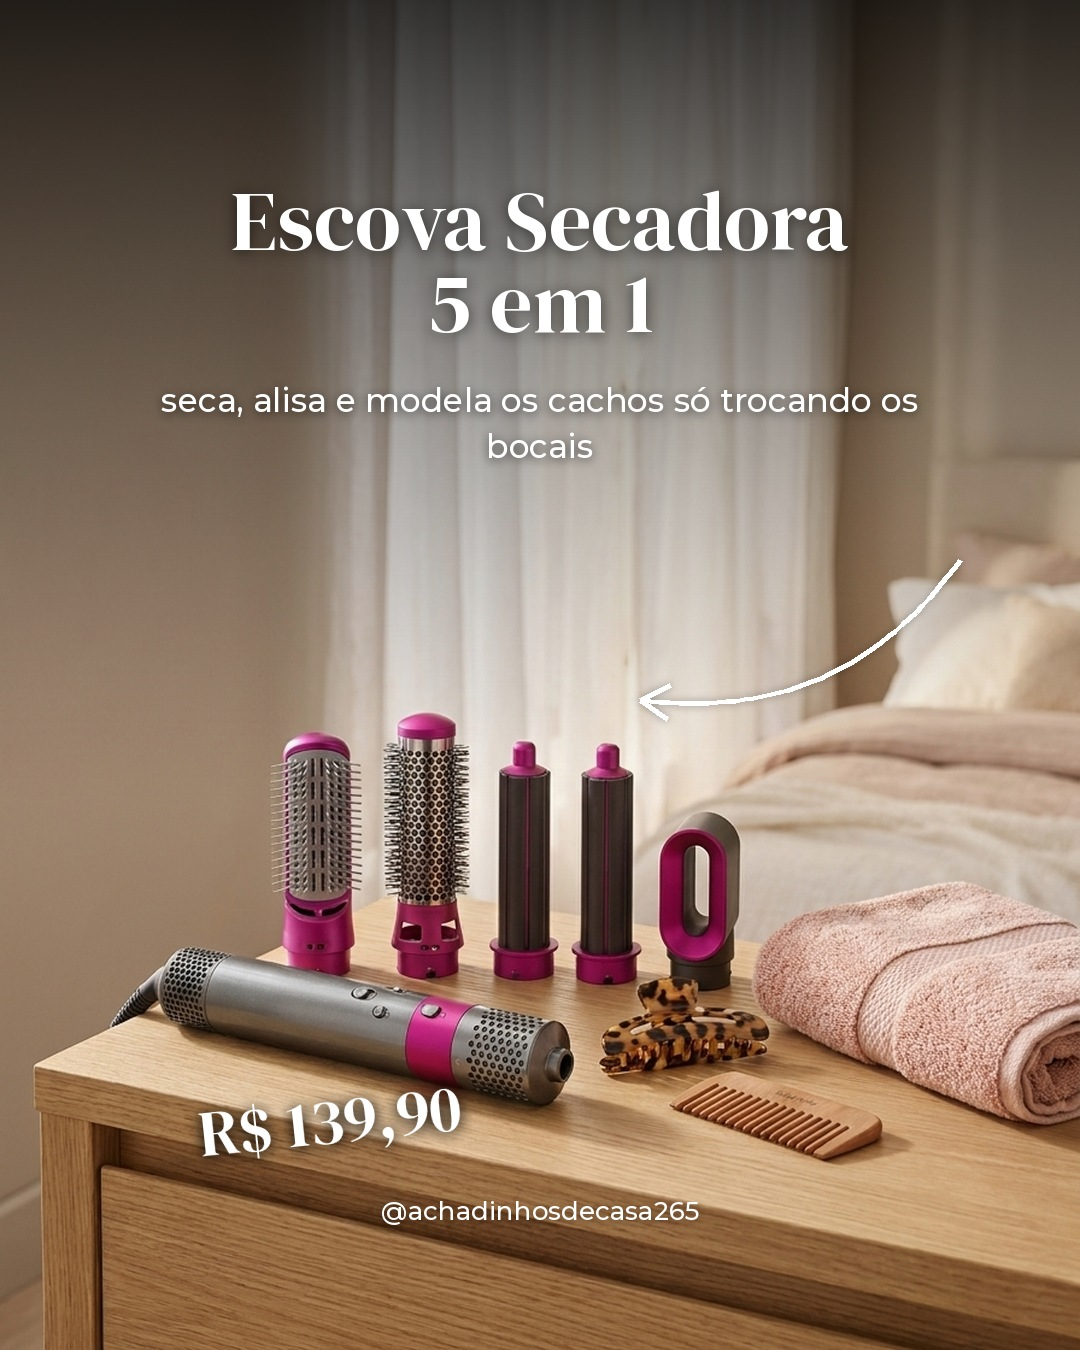
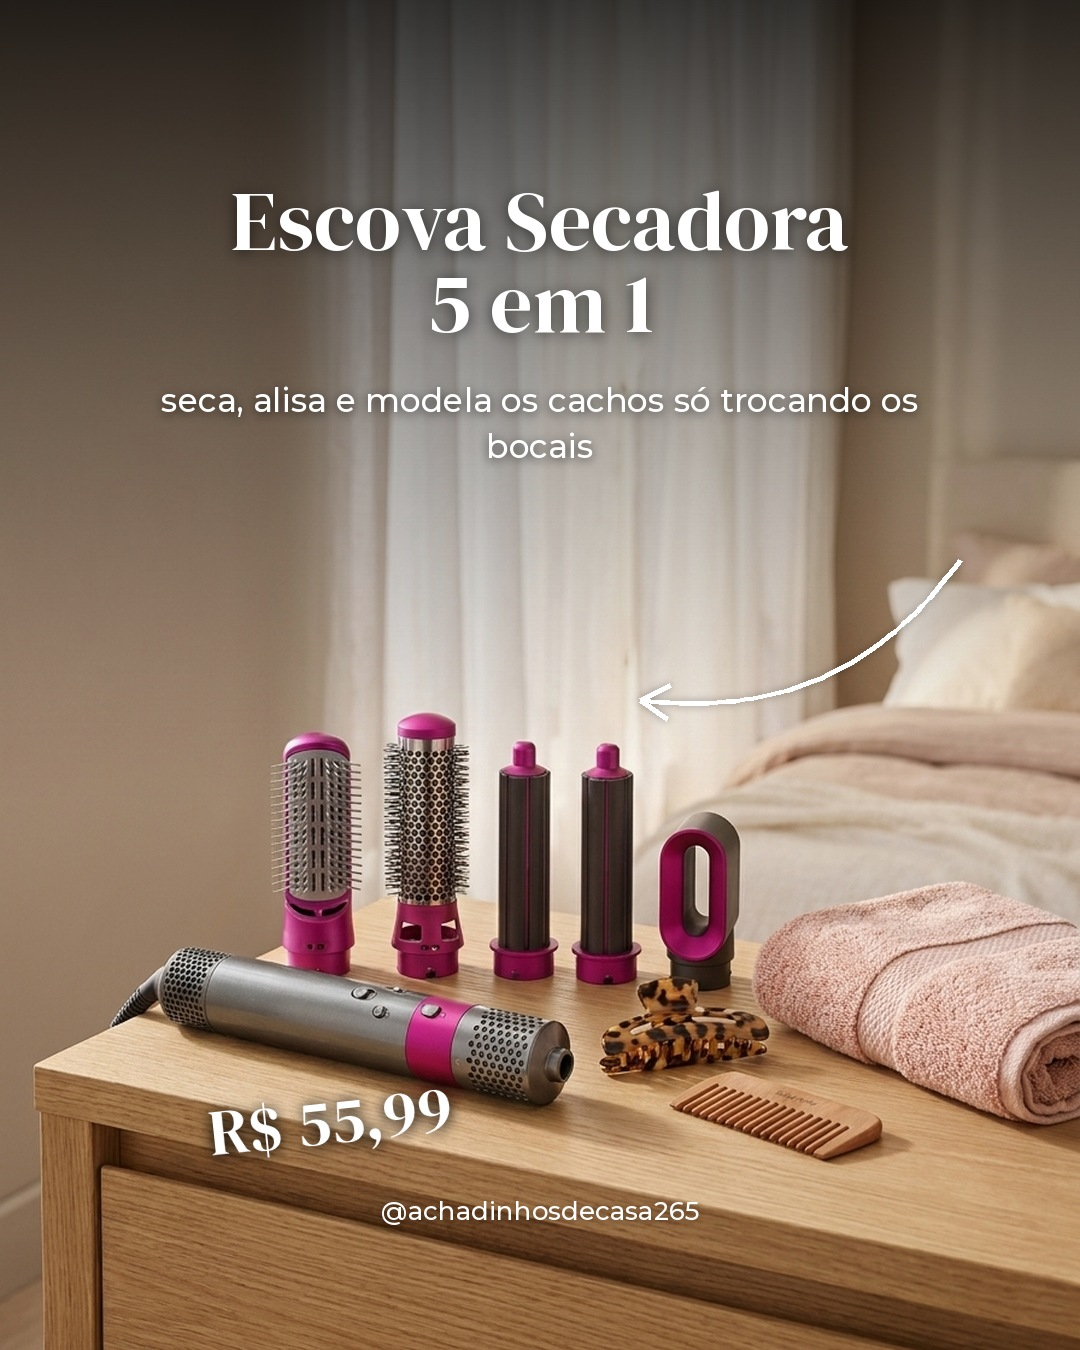
Vitrine: escova secadora mais barata (R$ 55,99) e slide atualizado
Claude-Session: https://claude.ai/code/session_01CWr17CHoRbKEX7ZbmpgPwK

Changed region(s): [[0.1833, 0.8089, 0.4583, 0.8711]]

diff --git a/index.html b/index.html
@@ -196,9 +196,9 @@ const PRODUCTS = [
   ,{ id: "espelho_led", name: "Espelho de Maquiagem LED de Mesa (3 cores de luz)", cat: "Beleza", tags: ["Posts anteriores"], video: 0,
     why: "Luz ajustável no toque, recarrega no USB e tem base porta-objetos pra deixar a make à mão.", price: "R$ 23,58", proof: "nota 4,9 · 3 mil+ vendidos",
     img: "img/espelho_led2.jpg", url: "https://s.shopee.com.br/5fpRl6A26o" }
-  ,{ id: "escova", name: "Escova Secadora e Modeladora 5 em 1", cat: "Beleza", tags: ["Posts anteriores"], video: 0,
-    why: "Seca, alisa e modela cachos trocando os bocais.", price: "R$ 139,90", proof: "troca de bocais",
-    img: "img/escova.jpg", url: "https://s.shopee.com.br/BUQxKPmqQ" }
+  ,{ id: "escova", name: "Escova Secadora 5 em 1 (secador, pente e modelador)", cat: "Beleza", tags: ["Posts anteriores"], video: 0,
+    why: "Seca, alisa, dá volume e modela os cachos só trocando os bocais.", price: "R$ 55,99", proof: "nota 4,3 · 50 mil+ vendidas",
+    img: "img/escova2.jpg", url: "https://s.shopee.com.br/6L58l6Ug8B" }
   ,{ id: "fita_led", name: "Fita LED com Sensor de Movimento", cat: "Iluminação", tags: ["Posts anteriores"], video: 0,
     why: "Acende sozinha embaixo da cama, no armário ou na escada.", price: "R$ 22,82", proof: "6 mil+ vendidos",
     img: "img/fita_led.jpg", url: "https://s.shopee.com.br/AKbD42UkIH" }
